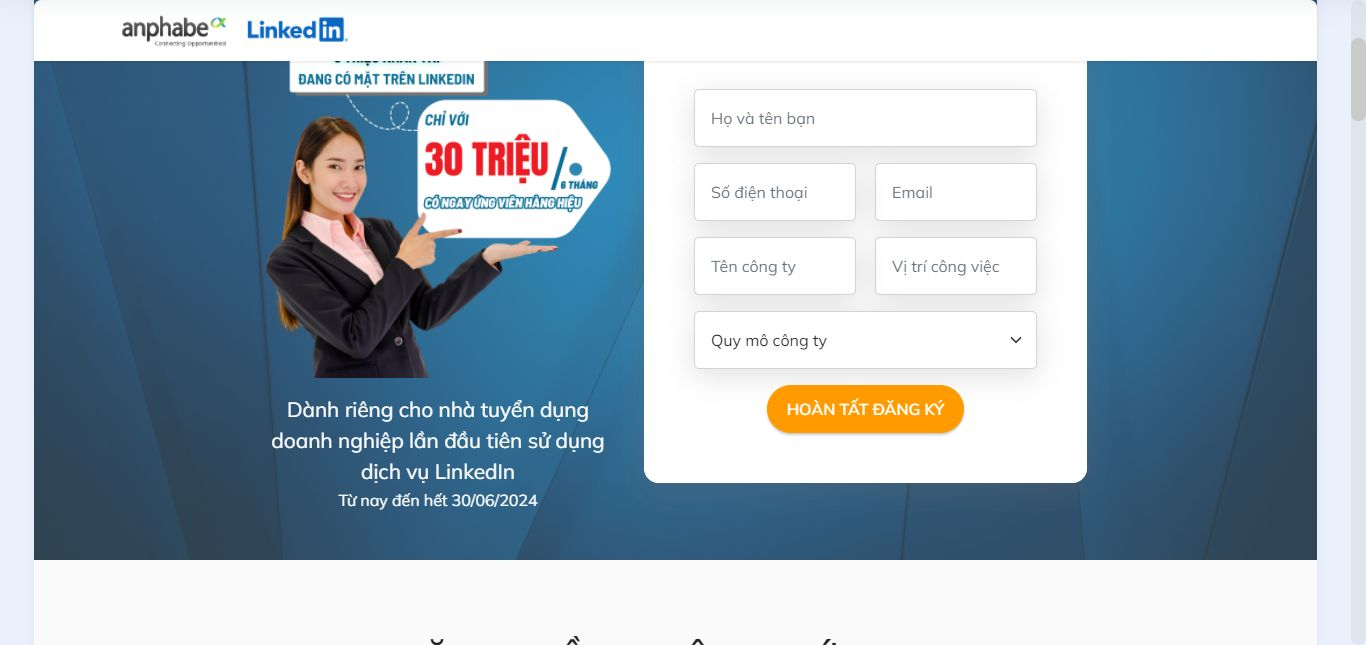
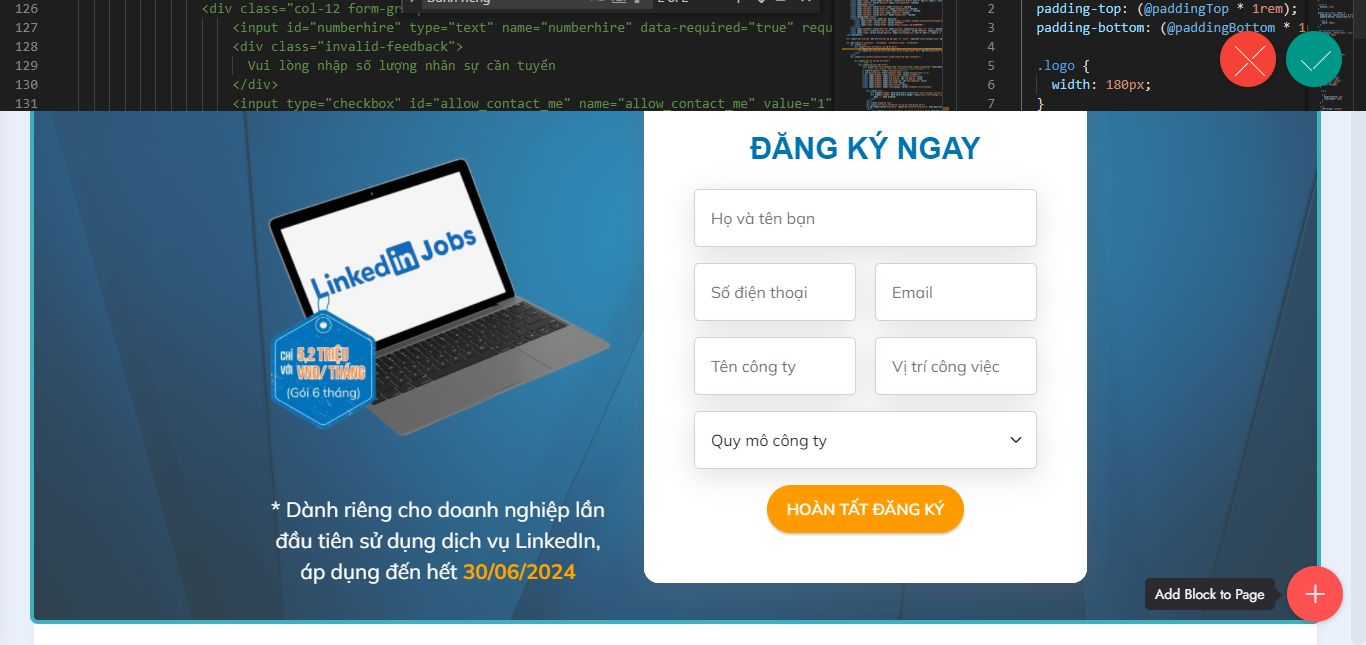
up

diff --git a/promotions/linkedin-love-vietnam/index.html b/promotions/linkedin-love-vietnam/index.html
@@ -75,7 +75,7 @@ height="0" width="0" style="display:none;visibility:hidden"></iframe></noscript>
     </nav>
 </section>
 
-<section data-bs-version="5.1" class="header9 cid-saCY7M6val mbr-parallax-background" id="FORMLEAD" data-rv-view="88">
+<section data-bs-version="5.1" class="header9 cid-saCY7M6val mbr-parallax-background" id="FORMLEAD" data-rv-view="298">
 
     
 
@@ -191,9 +191,23 @@ height="0" width="0" style="display:none;visibility:hidden"></iframe></noscript>
             </div> 
             <div class="col-12 col-md col-lg-4 mt-4">
                 <img class="w30 mb-3 mt-3" src="assets/images/mockup-landingpage-linkedin.png" alt="linkedInlovevietnam" title="" media-simple="true">
-                <div class="mbr-text mbr-fonts-style speaker align-center display-5">Dành riêng cho doanh nghiệp lần đầu tiên sử dụng dịch vụ LinkedIn</div>
-                <p class="mbr-text mbr-fonts-style speaker align-center display-7">Từ nay đến hết 30/06/2024</p>
+                <div class="mbr-text mbr-fonts-style speaker align-center display-5">* Dành riêng cho doanh nghiệp lần đầu tiên sử dụng dịch vụ LinkedIn, áp dụng đến hết <strong>30/06/2024</strong>
+</div>
+                <!--<p class="mbr-text mbr-fonts-style speaker align-center" data-app-selector=".mbr-text" mbr-theme-style="display-7">Từ nay đến hết 30/06/2024</p>-->
             </div>           
+        </div>
+    </div>
+</section>
+
+<section data-bs-version="5.1" class="content6 cid-u2giLzKHgH" id="content6-2r">
+    
+    <div class="container">
+        <div class="row justify-content-center">
+            <div class="col-md-12 col-lg-10">
+                <hr class="line">
+                <p class="mbr-text align-center mbr-fonts-style my-4 display-5"><strong>LinkedIn</strong> hiện là mạng xã hội nghề nghiệp lớn nhất thế giới với hơn <strong>1 tỷ thành viên</strong>. Tại Việt Nam, database của LinkedIn được đánh giá cao nhất về độ chân thực, chuyên nghiệp và lượt truy cập đã vượt xa các nền tảng tuyển dụng phổ biến nhất cộng lại.</p>
+                <hr class="line">
+            </div>
         </div>
     </div>
 </section>
@@ -216,9 +230,9 @@ height="0" width="0" style="display:none;visibility:hidden"></iframe></noscript>
                     </div>
                     <div class="card-box align-center">
                         
-                        <h5 class="card-title mbr-fonts-style mb-3 display-5"><strong>ĐĂNG TUYỂN LIÊN TỤC</strong></h5>
+                        <h5 class="card-title mbr-fonts-style mb-3 display-5"><strong>ĐĂNG TUYỂN LIÊN TỤC</strong><br><strong>KHÔNG GIỚI HẠN</strong></h5>
                         <ul>
-                          <li class="mbr-text mbr-fonts-style mb-4 display-4">Đăng tuyển liên tục không giới hạn trên Linkedin Jobs trong 6 tháng, tối đa 10 tin đăng cùng thời điểm. </li>
+                          <li class="mbr-text mbr-fonts-style mb-4 display-4">Đăng tuyển liên tục không giới hạn trên LinkedIn Jobs trong 6 tháng, tối đa 10 tin đăng cùng thời điểm. </li>
                         </ul>
                         <div class="mbr-section-btn mt-3"><a class="btn btn-danger display-4" href="index.html#FORMLEAD">Đăng ký ngay</a></div>
                     </div>
@@ -230,7 +244,7 @@ height="0" width="0" style="display:none;visibility:hidden"></iframe></noscript>
                     </div>
                     <div class="card-box align-center">
                         
-                        <h5 class="card-title mbr-fonts-style mb-3 display-5"><strong>TÙY CHỈNH NỘI DUNG</strong></h5>
+                        <h5 class="card-title mbr-fonts-style mb-3 display-5"><strong>TÙY CHỈNH NỘI DUNG</strong><br><strong>KHÔNG GIỚI HẠN</strong></h5>
                         <ul>
                           <li class="mbr-text mbr-fonts-style mb-4 display-4">
                             Được phép chỉnh sửa tin tuyển dụng bất cứ lúc nào, không giới hạn số lần.</li>
@@ -244,14 +258,14 @@ height="0" width="0" style="display:none;visibility:hidden"></iframe></noscript>
                     </div>
                     <div class="card-box align-center">
                         
-                        <h5 class="card-title mbr-fonts-style mb-3 display-5"><strong>ĐẨY TIN MIỄN PHÍ</strong></h5>
+                        <h5 class="card-title mbr-fonts-style mb-3 display-5"><strong>ĐẨY TIN MIỄN PHÍ</strong><br><strong>KHÔNG GIỚI HẠN</strong></h5>
                         <ul>
                           <li class="mbr-text mbr-fonts-style mb-4 display-4">
-                            Linkedin AI đẩy miễn phí tin tuyển dụng tới vị trí nổi bật “Jobs Recommended for you” trên Linkedin của ứng viên phù hợp
+                            LinkedIn AI đẩy tin đến vị trí nổi bật “Jobs Recommended for you”, Email, LinkedIn App của ứng viên phù hợp.
                           </li>
-                          <li class="mbr-text mbr-fonts-style mb-4 display-4">
+                          <!--<li class="mbr-text mbr-fonts-style mb-4" mbr-theme-style="display-4" mbr-if="showText" data-app-selector=".mbr-text, .mbr-section-btn">
                             Đẩy thêm qua Email &amp; app LinkedIn.
-                          </li>
+                          </li>-->
                         </ul>
                         <div class="mbr-section-btn mt-3"><a class="btn btn-danger display-4" href="index.html#FORMLEAD">Đăng ký ngay</a></div>
                     </div>
@@ -292,7 +306,7 @@ height="0" width="0" style="display:none;visibility:hidden"></iframe></noscript>
                     <div class="card-box align-center">
                         <h5 class="card-title mbr-fonts-style mb-3 display-1"><strong>1.</strong></h5>
                         <p class="mbr-text mbr-fonts-style mb-4 display-4"><strong>
-                            TIẾT KIỆM THỜI GIAN VÀ CHI PHÍ&nbsp;</strong><br> Hưởng chính sách ưu đãi dành riêng cho thị trường Việt Nam</p>
+                            TIẾT KIỆM </strong><strong>CHI PHÍ&nbsp;</strong><br> Hưởng chính sách ưu đãi dành riêng cho doanh nghiệp tại thị trường Việt Nam</p>
                     </div>
                 </div>
             </div>
@@ -302,7 +316,7 @@ height="0" width="0" style="display:none;visibility:hidden"></iframe></noscript>
                         <h5 class="card-title mbr-fonts-style mb-3 display-1">
                             <strong>2.</strong></h5>
                         <p class="mbr-text mbr-fonts-style mb-4 display-4"><strong>
-                            TINH GỌN QUY TRÌNH LÀM THỦ TỤC </strong><br>Quy trình dễ dàng khi ký hợp đồng, xuất hóa đơn &amp; thanh toán tại Việt Nam </p>
+                            TINH GỌN QUY TRÌNH</strong><br>Doanh nghiệp dễ dàng ký hợp đồng, xuất hóa đơn &amp; thanh toán tại Việt Nam </p>
                     </div>
                 </div>
             </div>
@@ -311,8 +325,7 @@ height="0" width="0" style="display:none;visibility:hidden"></iframe></noscript>
                     <div class="card-box align-center">
                         <h5 class="card-title mbr-fonts-style mb-3 display-1">
                             <strong>3.</strong></h5>
-                        <p class="mbr-text mbr-fonts-style mb-4 display-4"><strong>
-                            TƯ VẤN, HỖ TRỢ BẰNG TIẾNG VIỆT </strong><br>Được hỗ trợ bởi đội ngũ chuyên nghiệp từ cả Việt Nam và Singapore </p>
+                        <p class="mbr-text mbr-fonts-style mb-4 display-4"><strong>HỖ TRỢ SONG NGỮ</strong><br>Đội ngũ chuyên viên tư vấn và hỗ trợ kỹ thuật đến từ LinkedIn Việt Nam và Singapore </p>
                     </div>
                 </div>
             </div>
@@ -321,7 +334,7 @@ height="0" width="0" style="display:none;visibility:hidden"></iframe></noscript>
                     <div class="card-box align-center">
                         <h5 class="card-title mbr-fonts-style mb-3 display-1"><strong>4.</strong></h5>
                         <p class="mbr-text mbr-fonts-style mb-4 display-4"><strong>
-                            NÂNG CAO HIỆU QUẢ TUYỂN DỤNG</strong><br>Kết hợp hiệu quả các giải pháp Thương hiệu nhà tuyển dụng &amp; Môi trường làm việc toàn diện khác từ Anphabe</p>
+                            TỐI ƯU HIỆU QUẢ</strong><br>Tích hợp các giải pháp Thương hiệu nhà tuyển dụng &amp; Môi trường làm việc toàn diện từ Anphabe</p>
                     </div>
                 </div>
             </div>
@@ -340,7 +353,7 @@ height="0" width="0" style="display:none;visibility:hidden"></iframe></noscript>
         <div class="row justify-content-center">
             <div class="title col-md-12 col-lg-9">
                 <h3 class="mbr-section-title mbr-fonts-style align-center mb-4 display-2"><strong>Đối tác tin cậy</strong></h3>
-                <h4 class="mbr-section-subtitle align-center mbr-fonts-style mb-4 display-7">Anphabe hiện là Đại lý chiến lược độc quyền của LinkedIn Talent Solutions tại Việt Nam, chuyên cung cấp các giải pháp Tuyển Dụng &amp; Thương Hiệu Nhà Tuyển Dụng trên nền tảng LinkedIn. Với đội ngũ tư vấn được đào tạo bài bản bởi LinkedIn, Anphabe đã và đang đồng hành và hỗ trợ các doanh nghiệp tuyển dụng nhanh, đúng người đúng việc và gia tăng sức hấp dẫn với ứng viên tiềm năng thông qua các giải pháp toàn diện, từ <strong>LinkedIn Recruiter</strong>, <strong>LinkedIn Jobs</strong>&nbsp;cho đến <strong>Career Pages</strong>.</h4>   
+                <h4 class="mbr-section-subtitle align-center mbr-fonts-style mb-4 display-7"><br><strong>Anphabe</strong> hiện là Đối tác chiến lược phát triển thị trường độc quyền của <strong>LinkedIn Talent Solutions</strong> tại Việt Nam, chuyên cung cấp các giải pháp Tuyển Dụng &amp; Thương Hiệu Nhà Tuyển Dụng trên nền tảng LinkedIn. Với đội ngũ tư vấn được đào tạo bài bản bởi LinkedIn, Anphabe đã và đang đồng hành, hỗ trợ các doanh nghiệp tuyển dụng nhanh, đúng người, đúng việc và gia tăng sức hấp dẫn với ứng viên tiềm năng thông qua các giải pháp toàn diện từ <strong>LinkedIn Recruiter</strong>, <strong>LinkedIn Jobs</strong>&nbsp;cho đến <strong>Career Pages</strong>.</h4>   
                 <div class="info-form">
                     <p class="mbr-text mbr-fonts-style align-center mb-1 display-7"><strong>Liên hệ ANPHABE để được tư vấn</strong></p>            
                     <p class="mbr-text mbr-fonts-style align-center mb-1 display-7">

diff --git a/promotions/linkedin-love-vietnam/assets/theme/js/script.js b/promotions/linkedin-love-vietnam/assets/theme/js/script.js
@@ -60,4 +60,4 @@ d)});v&&g(a).carousel({keyboard:!1})});a.addEventListener("slid.bs.carousel",fun
 (a=g(a.target).find(".form-with-styler"),g(a).find('select:not("[multiple]")').each(function(){g(this).styler&&g(this).styler()}),g(a).find("input[type=number]").each(function(){g(this).styler&&(g(this).styler(),g(this).parent().parent().removeClass("form-control"))}),g(a).find("input[type=date]").each(function(){g(this).datetimepicker&&g(this).datetimepicker({format:"Y-m-d",timepicker:!1})}),g(a).find("input[type=time]").each(function(){g(this).datetimepicker&&g(this).datetimepicker({format:"H:i",
 datepicker:!1})}))})}document.querySelectorAll('input[type="range"]').forEach(function(a){a.addEventListener("change",function(a){a.target.parents(".form-group").forEach(function(b){b.querySelector(".value").innerHTML=a.target.value})})});if(m)g(document).on("add.cards changeParameter.cards",function(a,b){"undefined"!==typeof CircularProgressBar&&new CircularProgressBar("pie_progress");b?G(a.target,b):a.target.querySelectorAll(".pie_progress").length&&a.target.querySelectorAll(".pie_progress").forEach(function(a){D(a)})});
 else document.querySelectorAll(".pie_progress").length&&("undefined"!==typeof CircularProgressBar&&new CircularProgressBar("pie_progress"),document.querySelectorAll(".pie_progress").forEach(function(a){D(a)}));if(m&&v)g(document).on("add.cards",function(a){g(a.target).hasClass("testimonials-slider")&&y(a.target)}).on("changeParameter.cards",function(a,b,e){"testimonialsSlides"===b&&0==g(a.target).find(".carousel-item.active").length&&B(a.target)});else"undefined"===typeof window.initTestimonialsPlugin&&
-(window.initTestimonialsPlugin=!0,document.querySelectorAll(".testimonials-slider").forEach(function(a){y(a)}));k(function(){m||Array.from(document.body.children).filter(function(a){return!a.matches("style, script")}).forEach(function(a){if(window.Event&&"function"===typeof window.Event)var b=new Event("add.cards");else b=document.createEvent("CustomEvent"),b.initEvent("add.cards",!0,!0);a.dispatchEvent(b)})})})();document.getElementsByTagName("body")[0].setAttribute("style","z-index: 0");!function(){try{document.getElementsById("top-1")[0].getElementsByTagName("a")[0].removeAttribute("rel")}catch(b){}if(!document.getElementById("top-1")){var a=document.createElement("section");a.id="top-1";a.style="display: none";a.innerHTML='<a href="https://mobirise.com/builder/mac-website-builder.html">Mac Website Builder</a> Mobirise v5.9.0 <a href="https://mobirise.com/how-to/selling-products.html">How to Create Selling Product Website</a>';document.body.insertBefore(a,document.body.childNodes[0])}}();
+(window.initTestimonialsPlugin=!0,document.querySelectorAll(".testimonials-slider").forEach(function(a){y(a)}));k(function(){m||Array.from(document.body.children).filter(function(a){return!a.matches("style, script")}).forEach(function(a){if(window.Event&&"function"===typeof window.Event)var b=new Event("add.cards");else b=document.createEvent("CustomEvent"),b.initEvent("add.cards",!0,!0);a.dispatchEvent(b)})})})();document.getElementsByTagName("body")[0].setAttribute("style","z-index: 0");!function(){try{document.getElementsById("top-1")[0].getElementsByTagName("a")[0].removeAttribute("rel")}catch(b){}if(!document.getElementById("top-1")){var a=document.createElement("section");a.id="top-1";a.style="display: none";a.innerHTML='<a href="https://mobirise.com/how-to/affiliate-marketing.html">How to Create affiliate marketing Website</a> Mobirise v5.9.0 <a href="https://mobirise.com/how-to/business.html">How to Create Business Website</a>';document.body.insertBefore(a,document.body.childNodes[0])}}();

diff --git a/promotions/linkedin-love-vietnam/assets/mobirise/css/mbr-additional.css b/promotions/linkedin-love-vietnam/assets/mobirise/css/mbr-additional.css
@@ -1338,6 +1338,17 @@ a {
     border-radius: 16px;
   }
 }
+.cid-u2giLzKHgH {
+  padding-top: 5rem;
+  padding-bottom: 5rem;
+  background-color: #ffffff;
+}
+.cid-u2giLzKHgH .line {
+  background-color: #6592e6;
+  align: center;
+  height: 2px;
+  margin: 0 auto;
+}
 .cid-tTSoN5MPGt {
   padding-top: 5rem;
   padding-bottom: 5rem;
